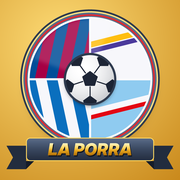
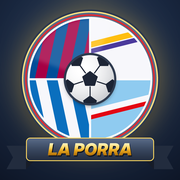
Icono en azul noche
Claude-Session: https://claude.ai/code/session_01WnahYQ44zuL5MJNsFyzTZ6

diff --git a/sw.js b/sw.js
@@ -1,5 +1,5 @@
 // La Porra · service worker: app instalable, funciona offline la portada y recibe avisos
-const CACHE = "porra-v11";
+const CACHE = "porra-v12";
 const SHELL = ["./", "index.html", "manifest.json", "icons/icon-192.png", "icons/icon-512.png", "icons/apple-touch-icon.png", "icons/logo.png", "img/cracks.webp", "img/cracks.jpg"];
 
 self.addEventListener("install", (e) => {
